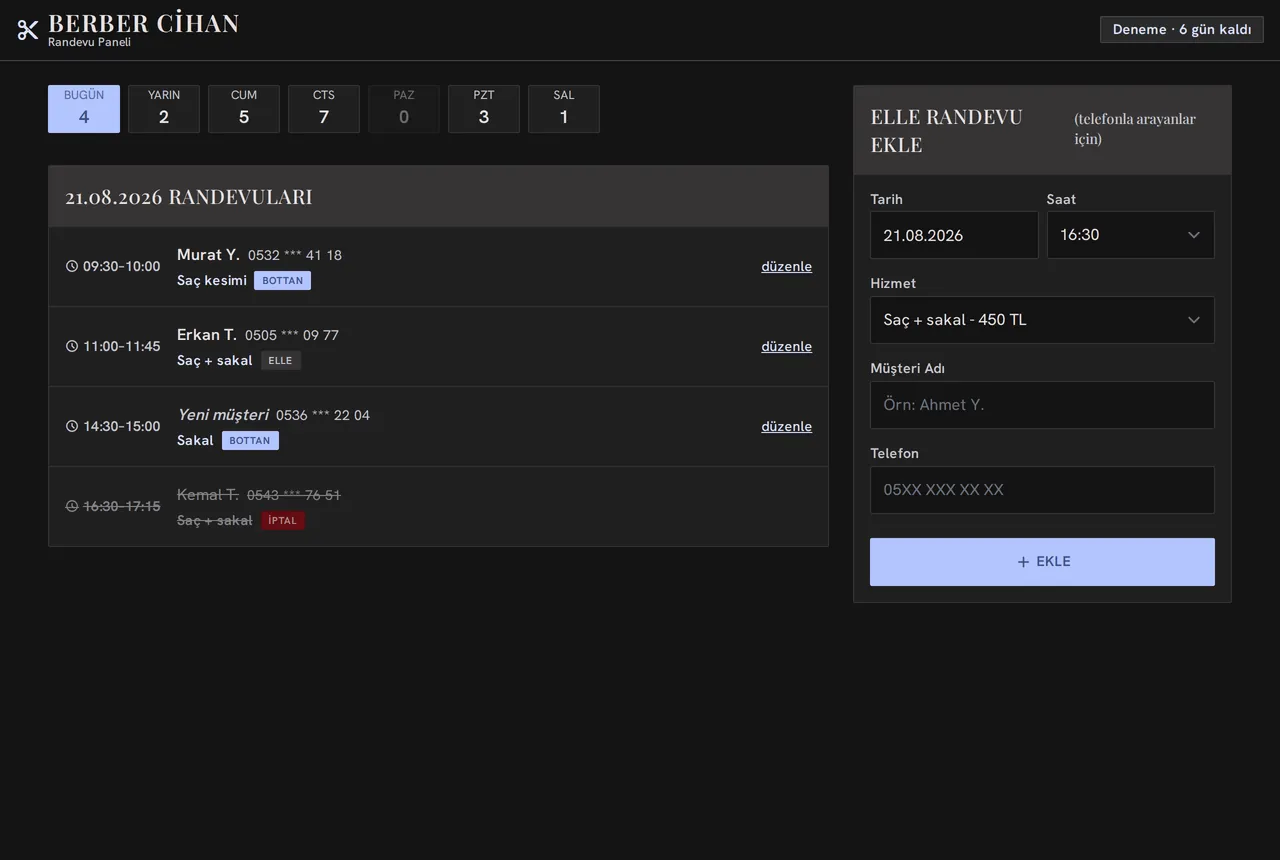
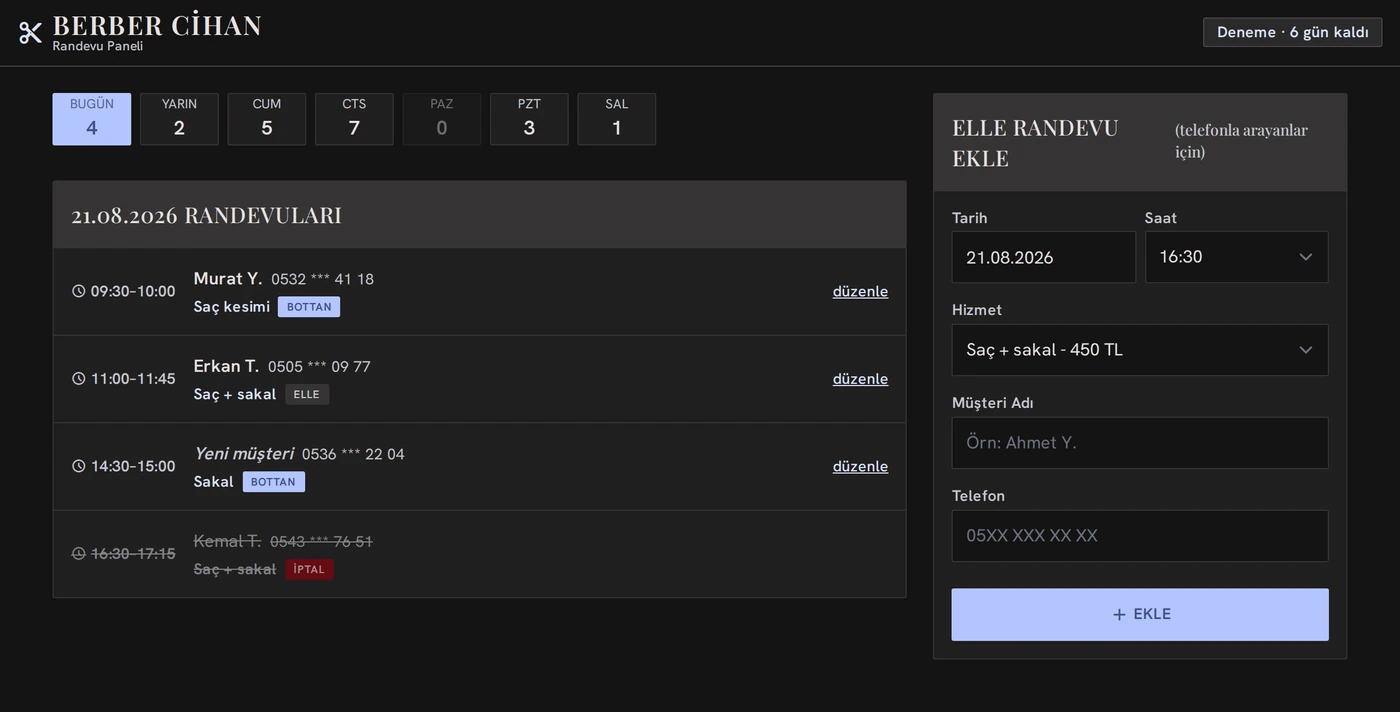
AgentOS tam sayfa görseli, esnaf paneli 2x, büyüteç altyazıdan da açılıyor
Demir'in 01:53 sesli emri (canlıya bakarak):

1) AGENTOS — "küçük uzay kapak karesi" yerine ana sayfanın BAŞTAN AŞAĞI
   tam görseli kondu (agentos-ana.webp, 1400x2472) + görev panelinin tam
   boy görüntüsü (agentos-gorev.webp). İkisi de büyüteçte tam boy ve
   kaydırılabilir açılıyor.

   VERİ NASIL TEMSİLÎ YAPILDI: canlı sayfa Demir'in banka hareketleri,
   AWS vaka numarası, Telegram kimliği, tailnet adresi ve borsa
   pozisyonlarıyla doluydu; ekrandan silmek yerine TÜM /api uçları
   Playwright ile kesilip temsilî veriyle beslendi — canlı veri DOM'a
   hiç girmedi. Ayrıca maliye/abonelik/hareket/piyasa/bot kartları
   tamamen kaldırıldı, sunucu adı ve IP maskelendi.
   İKİ KAPIDAN GEÇTİ: hem DOM metni hem tesseract OCR çıktısı 33 yasaklı
   terim ve IP kalıbı için tarandı, ikisi de temiz.
   Zihin haritası kartı çıkarıldı: canvas giriş katmanı açıkken sıfır
   boyutla kurulup bir daha çizilmiyor, boş siyah kutu görünüyordu.

2) ESNAF PANELİ — maket kaynağından device_scale_factor=2 ile yeniden
   render edildi, çerçeve içeriğe göre daraltıldı (eski görselin altında
   ~250px boş siyah alan vardı, iç görsel bu yüzden küçük kalıyordu).
   Yanına randevu listesinin yakın çekimi eklendi; ikisi de büyütülebilir.
   Maket dosyasındaki iptal satırında müşteri adı "Demir İ." yazıyordu —
   siteye kişi adı girmesin diye "Kemal T." ile değiştirildi.

3) BÜYÜTEÇ — artık görselin yanı sıra ALTYAZIYA tıklayınca da açılıyor
[…]

diff --git a/index.html b/index.html
@@ -109,9 +109,15 @@
 </div>
 <div class="wrap panel-genis">
 <p class="panel-bas">Uygulama tarafı — esnaf paneli</p>
+<div class="panel-ikili">
 <div class="gorsel-kutu zoomlu">
-<img class="buyu" src="assets/img/randevu-panel.webp" width="1280" height="860" loading="lazy" decoding="async" alt="Esnaf paneli: günün randevuları, boş saatler ve hizmet listesi">
-<p class="gorsel-alt">Esnaf paneli — günün randevuları, boş saatler, hizmet ve fiyat listesi. Büyütmek için tıklayın.</p>
+<img class="buyu" src="assets/img/randevu-panel.webp" width="1400" height="712" loading="lazy" decoding="async" alt="Esnaf paneli: günün randevuları, boş saatler ve elle randevu ekleme formu">
+<p class="gorsel-alt">Esnaf paneli — günün randevuları, boş saatler, elle randevu ekleme</p>
+</div>
+<div class="gorsel-kutu zoomlu">
+<img class="buyu" src="assets/img/randevu-panel-liste.webp" width="1100" height="691" loading="lazy" decoding="async" alt="Randevu listesi yakın çekim: saat, müşteri, hizmet ve randevunun bottan mı elle mi geldiğini gösteren etiketler">
+<p class="gorsel-alt">Yakın çekim — her randevunun bottan mı elle mi geldiği etiketle görünür</p>
+</div>
 </div>
 </div>
 </article>
@@ -121,12 +127,13 @@
 <div class="wrap serit-in">
 <div class="serit-gorsel gir">
 <div class="gorsel-yigin">
-<div class="uzay-serit">
-<img src="assets/img/agentos-uzay.webp" width="1600" height="560" loading="lazy" decoding="async" alt="VYRON AgentOS açılış ekranının derin uzay görüntüsü, üzerine ızgara dokusu ve marka yazısı bindirilmiş">
+<div class="gorsel-kutu zoomlu uzun">
+<img class="buyu" src="assets/img/agentos-ana.webp" width="1400" height="2472" loading="lazy" decoding="async" alt="VYRON AgentOS ana sayfası baştan sona: derin uzay açılış ekranı, proje kartları, kullanım sayaçları, günlük ve gece analizi">
+<p class="gorsel-alt">AgentOS ana sayfası — baştan aşağı kendi sistemimizin ekranı, kayıtlar temsilî veriyle</p>
 </div>
 <div class="gorsel-kutu zoomlu">
-<img class="buyu" src="assets/img/agentos-panel.webp" width="1000" height="900" loading="lazy" decoding="async" alt="AgentOS görev paneli: sizi bekleyen işler ve ajanların bitirdiği işler listesi">
-<p class="gorsel-alt">Görev paneli — kendi sistemimizin ekranı, kayıtlar temsilî veriyle gösterildi. Büyütmek için tıklayın.</p>
+<img class="buyu" src="assets/img/agentos-gorev.webp" width="1400" height="972" loading="lazy" decoding="async" alt="AgentOS görev paneli: sizi bekleyen işler ve ajanların bitirdiği işler listesi, durum etiketleriyle">
+<p class="gorsel-alt">Görev paneli — sizi bekleyenler ve ajanların bitirdiği işler</p>
 </div>
 <div class="video-kutu">
 <span class="video-etiket">Panel kullanımı — sesi yok</span>
@@ -361,6 +368,18 @@
     img.src = '';
     if (son) { son.focus && son.focus(); son = null; }
   }
+  /* altyazıya tıklayınca da açılsın (Demir 03.09: etiket tıklanmıyordu) */
+  [].slice.call(document.querySelectorAll('.zoomlu .gorsel-alt')).forEach(function (alt) {
+    var kutu = alt.closest('.zoomlu');
+    var im = kutu && kutu.querySelector('img.buyu');
+    if (!im) return;
+    alt.tabIndex = 0;
+    alt.setAttribute('role', 'button');
+    alt.addEventListener('click', function () { ac(im); });
+    alt.addEventListener('keydown', function (e) {
+      if (e.key === 'Enter' || e.key === ' ') { e.preventDefault(); ac(im); }
+    });
+  });
   [].slice.call(document.querySelectorAll('img.buyu')).forEach(function (n) {
     n.tabIndex = 0;
     n.setAttribute('role', 'button');

diff --git a/assets/css/yenileme.css b/assets/css/yenileme.css
@@ -237,16 +237,22 @@ footer .marka-tools{font-size:11px}
 
 /* ---------- buyuten gorsel (lightbox) — kutuphane yok, saf CSS+JS ---------- */
 .zoomlu{cursor:zoom-in;position:relative}
+.zoomlu .gorsel-alt{cursor:pointer}
+.zoomlu .gorsel-alt::after{content:" · büyüt";color:var(--acc-yazi);font-weight:600}
 .zoomlu::after{content:"BÜYÜT";position:absolute;right:12px;bottom:12px;
   font-family:'Space Grotesk',Arial,sans-serif;font-size:10px;font-weight:600;letter-spacing:.14em;
   color:#fff;background:rgba(0,0,0,.66);border:1px solid rgba(255,255,255,.28);
   border-radius:999px;padding:6px 11px;opacity:0;transition:opacity .2s ease;pointer-events:none}
 .zoomlu:hover::after,.zoomlu:focus-visible::after{opacity:1}
 .buyutec{position:fixed;inset:0;z-index:120;background:rgba(6,6,8,.95);
-  display:none;align-items:center;justify-content:center;padding:28px}
+  display:none;align-items:flex-start;justify-content:center;padding:28px;
+  overflow:auto;overscroll-behavior:contain;-webkit-overflow-scrolling:touch}
 .buyutec.acik{display:flex}
-.buyutec img{max-width:min(1500px,96vw);max-height:90vh;width:auto;height:auto;
+/* tam sayfa ekran goruntuleri cok uzun: yukseklik SINIRLANMAZ, kutu kaydirilir.
+   margin:auto sayesinde kisa gorseller yine ortalanir. */
+.buyutec img{max-width:min(1500px,96vw);max-height:none;width:auto;height:auto;margin:auto;
   border-radius:14px;border:1px solid var(--line2);box-shadow:0 30px 90px rgba(0,0,0,.7)}
+.buyutec-kapat{position:fixed}
 .buyutec-kapat{position:absolute;top:16px;right:18px;width:46px;height:46px;border-radius:50%;
   background:rgba(255,255,255,.1);border:1px solid var(--line2);color:var(--txt);
   font-size:26px;line-height:1;display:flex;align-items:center;justify-content:center}
@@ -256,6 +262,8 @@ footer .marka-tools{font-size:11px}
 
 /* ---------- tam genislik panel seridi (esnaf paneli) ---------- */
 .panel-genis{margin-top:52px}
+.panel-ikili{display:grid;grid-template-columns:1fr;gap:16px;align-items:start}
+@media (min-width:900px){.panel-ikili{grid-template-columns:minmax(0,1.35fr) minmax(0,1fr)}}
 .panel-genis .gorsel-kutu{box-shadow:0 28px 70px rgba(0,0,0,.55)}
 .panel-bas{font-family:'Space Grotesk',Arial,sans-serif;font-size:11.5px;letter-spacing:.2em;
   text-transform:uppercase;color:var(--acc-yazi);margin:0 0 14px}
